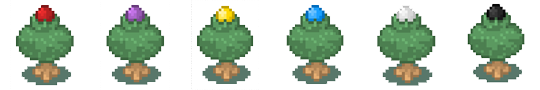
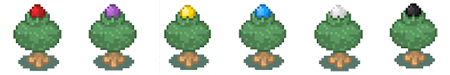
fixed dem sprites
fixed it

diff --git a/src/cutthetree/PlayFrame.java b/src/cutthetree/PlayFrame.java
@@ -6,8 +6,8 @@ import javax.swing.*;
  * Created by The lion kings on 17-3-2017.
  */
 public class PlayFrame extends JFrame {
-    private final static int FRAME_HEIGHT = 1040;
-    private final static int FRAME_WIDTH = 1080;
+    private final static int FRAME_HEIGHT = 940;
+    private final static int FRAME_WIDTH = 900;
 
     public PlayFrame(){
         getContentPane().setSize(FRAME_WIDTH, FRAME_HEIGHT);

diff --git a/src/cutthetree/Lumberaxe.java b/src/cutthetree/Lumberaxe.java
@@ -32,7 +32,7 @@ public class Lumberaxe extends Field {
         super.paint(g);
 
         int idx = color.ordinal();
-        g.drawImage(image, xPos, yPos, xPos + 90, yPos + 90, idx * 90, 0, (idx + 1) * 90, 90, null);
+        g.drawImage(image, xPos, yPos, xPos + 75, yPos + 75, idx * 75, 0, (idx + 1) * 75, 75, null);
 
 
     }

diff --git a/src/cutthetree/Tree.java b/src/cutthetree/Tree.java
@@ -32,7 +32,7 @@ public class Tree extends Field {
         super.paint(g);
 
         int idx = color.ordinal();
-        g.drawImage(image, xPos, yPos, xPos + 90, yPos + 90, idx * 90, 0, (idx + 1) * 90, 90, null);
+        g.drawImage(image, xPos, yPos, xPos + 75, yPos + 75, idx * 75, 0, (idx + 1) * 75, 75, null);
 
 
     }

diff --git a/src/cutthetree/Field.java b/src/cutthetree/Field.java
@@ -19,8 +19,8 @@ public class Field {
     //}
 
     public Field(int x, int y) {
-        this.xPos = x * 90;
-        this.yPos = y * 90;
+        this.xPos = x * 75;
+        this.yPos = y * 75;
 
         if (grass == null) loadImage();
     }
